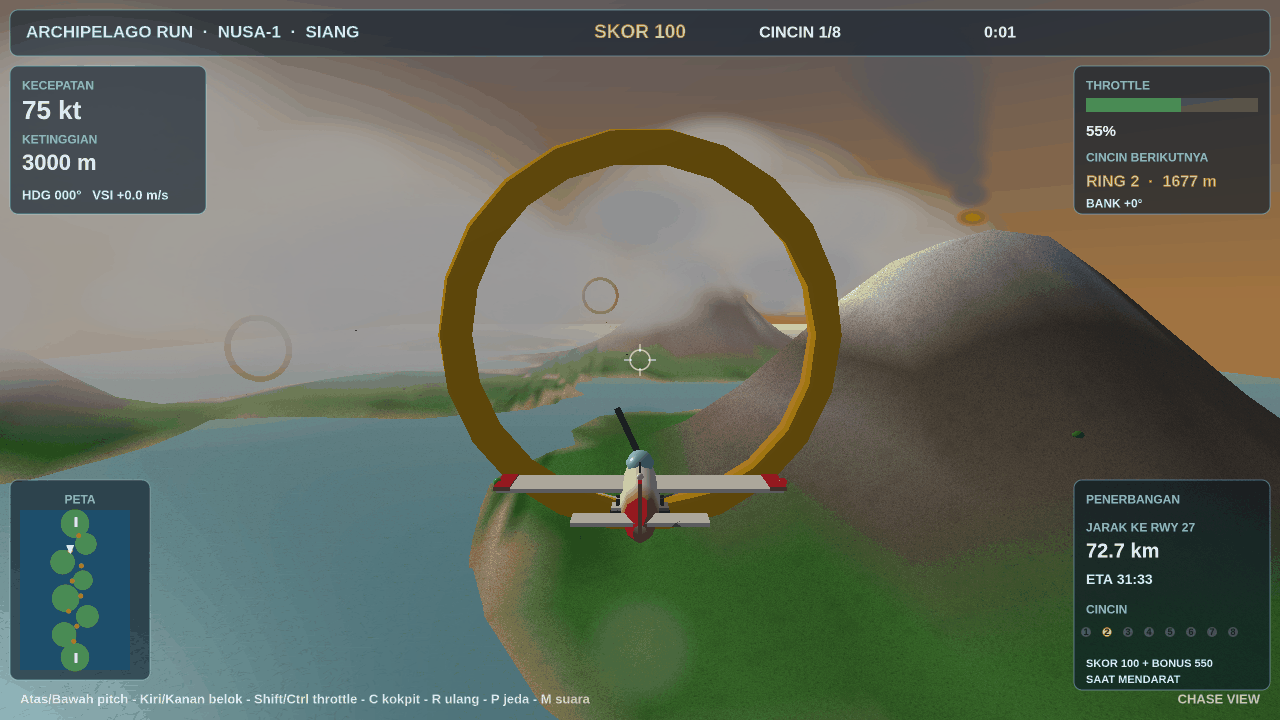
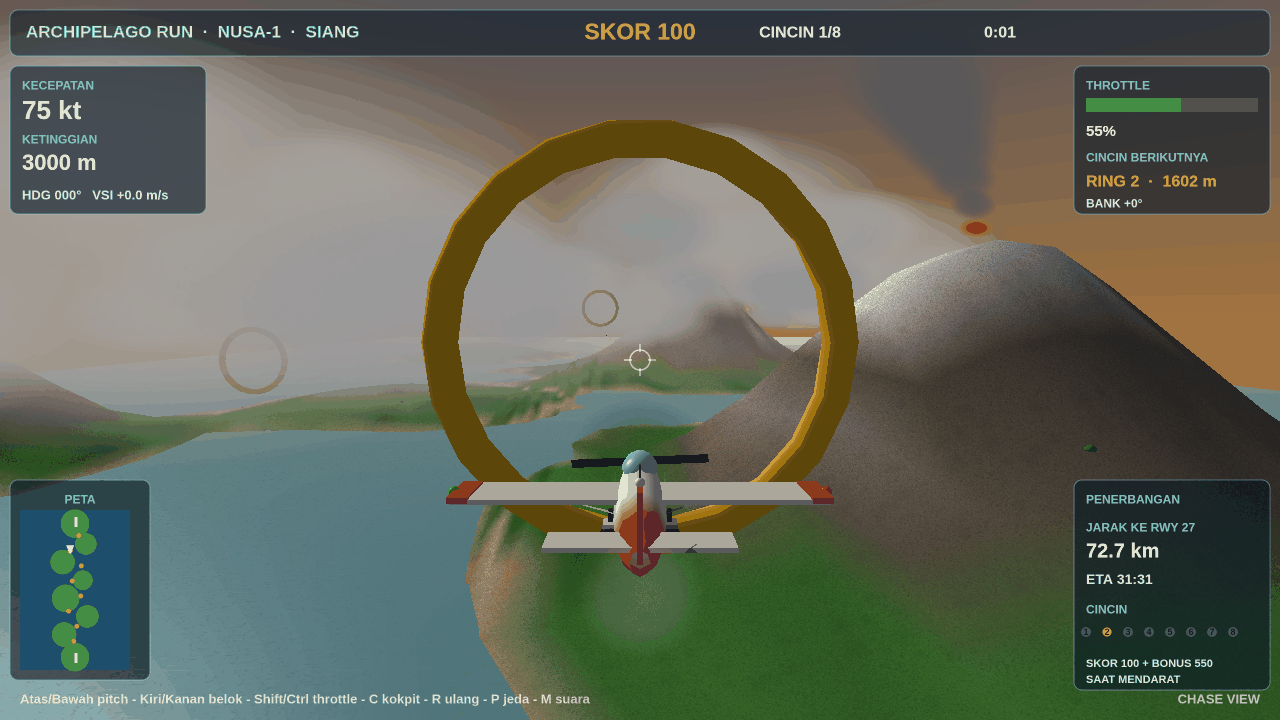
flight v4: thumbnail duel win — bigger plane (cover camDist 26, landed 30), score 19px to 23px

diff --git a/game/index.html b/game/index.html
@@ -1653,7 +1653,7 @@ function drawHUD(){
   // --- top bar ---
   panel(10,10,1260,46,0.55);
   txt('ARCHIPELAGO RUN  ·  NUSA-1  ·  '+MISSION_NAMES[S.mission],26,33,17,'#9fd8ff','left','800');
-  txt('SKOR '+S.score,640,33,19,'#ffd23d','center','800');
+  txt('SKOR '+S.score,640,33,23,'#ffd23d','center','800');
   txt('CINCIN '+S.rings+'/8',800,33,16,'#eaf6ff','center','700');
   txt(fmtTime(S.time),1000,33,16,'#eaf6ff','center','700');
   if(SCALE<2)txt(Math.round(S.fps)+' fps',1244,33,13,'#8fb8d8','right');
@@ -1784,7 +1784,7 @@ function drawHUD(){
 function drawTopStrip(){
   panel(10,10,1260,46,0.55);
   txt('ARCHIPELAGO RUN  ·  NUSA-1  ·  COCKPIT  ·  '+MISSION_NAMES[S.mission],26,33,16,'#9fd8ff','left','800');
-  txt('SKOR '+S.score,640,33,19,'#ffd23d','center','800');
+  txt('SKOR '+S.score,640,33,23,'#ffd23d','center','800');
   txt('CINCIN '+S.rings+'/8',800,33,16,'#eaf6ff','center','700');
   txt(fmtTime(S.time),1000,33,16,'#eaf6ff','center','700');
   if(SCALE<2)txt(Math.round(S.fps)+' fps',1244,33,13,'#8fb8d8','right');
@@ -1918,8 +1918,8 @@ if(scene==='takeoff'){S.started=true;S.mode='flying';S.x=300;S.y=130;S.z=-450;S.
 else if(scene==='ring'){S.started=true;S.mode='flying';S.x=380;S.y=230;S.z=2700;S.heading=0.2;S.pitch=-0.02;S.speed=70;S.throttle=0.7;S.nextRing=2;S.rings=2;S.score=200;}
 else if(scene==='landing'){S.started=true;S.mode='flying';S.x=20;S.y=35;S.z=8850;S.heading=-0.1;S.speed=35;S.throttle=0.25;S.pitch=-0.04;S.nextRing=8;S.rings=8;S.score=800;}
 else if(scene==='cockpit'){S.started=true;S.mode='flying';S.view='cockpit';S.x=200;S.y=230;S.z=4500;S.heading=0.1;S.speed=70;S.throttle=0.55;S.pitch=0;S.nextRing=4;S.rings=3;S.score=300;}
-else if(scene==='cover'){S.started=true;S.mode='flying';S.x=-320;S.y=300;S.z=1650;S.heading=0;S.speed=75;S.throttle=0.55;S.pitch=0;S.nextRing=1;S.rings=1;S.score=100;}
-else if(scene==='landed'){S.started=true;S.mode='takeoff';S.x=38;S.y=4;S.z=9170;S.heading=2.7;S.speed=0;S.throttle=0;S.pitch=0;S.camDist=45;S.camH=0.32;}
+else if(scene==='cover'){S.started=true;S.mode='flying';S.x=-320;S.y=300;S.z=1650;S.heading=0;S.speed=75;S.throttle=0.55;S.pitch=0;S.nextRing=1;S.rings=1;S.score=100;S.camDist=26;S.camH=0.32;}
+else if(scene==='landed'){S.started=true;S.mode='takeoff';S.x=38;S.y=4;S.z=9170;S.heading=2.7;S.speed=0;S.throttle=0;S.pitch=0;S.camDist=30;S.camH=0.32;}
 
 // ---------- main loop ----------
 let lastT=performance.now();
